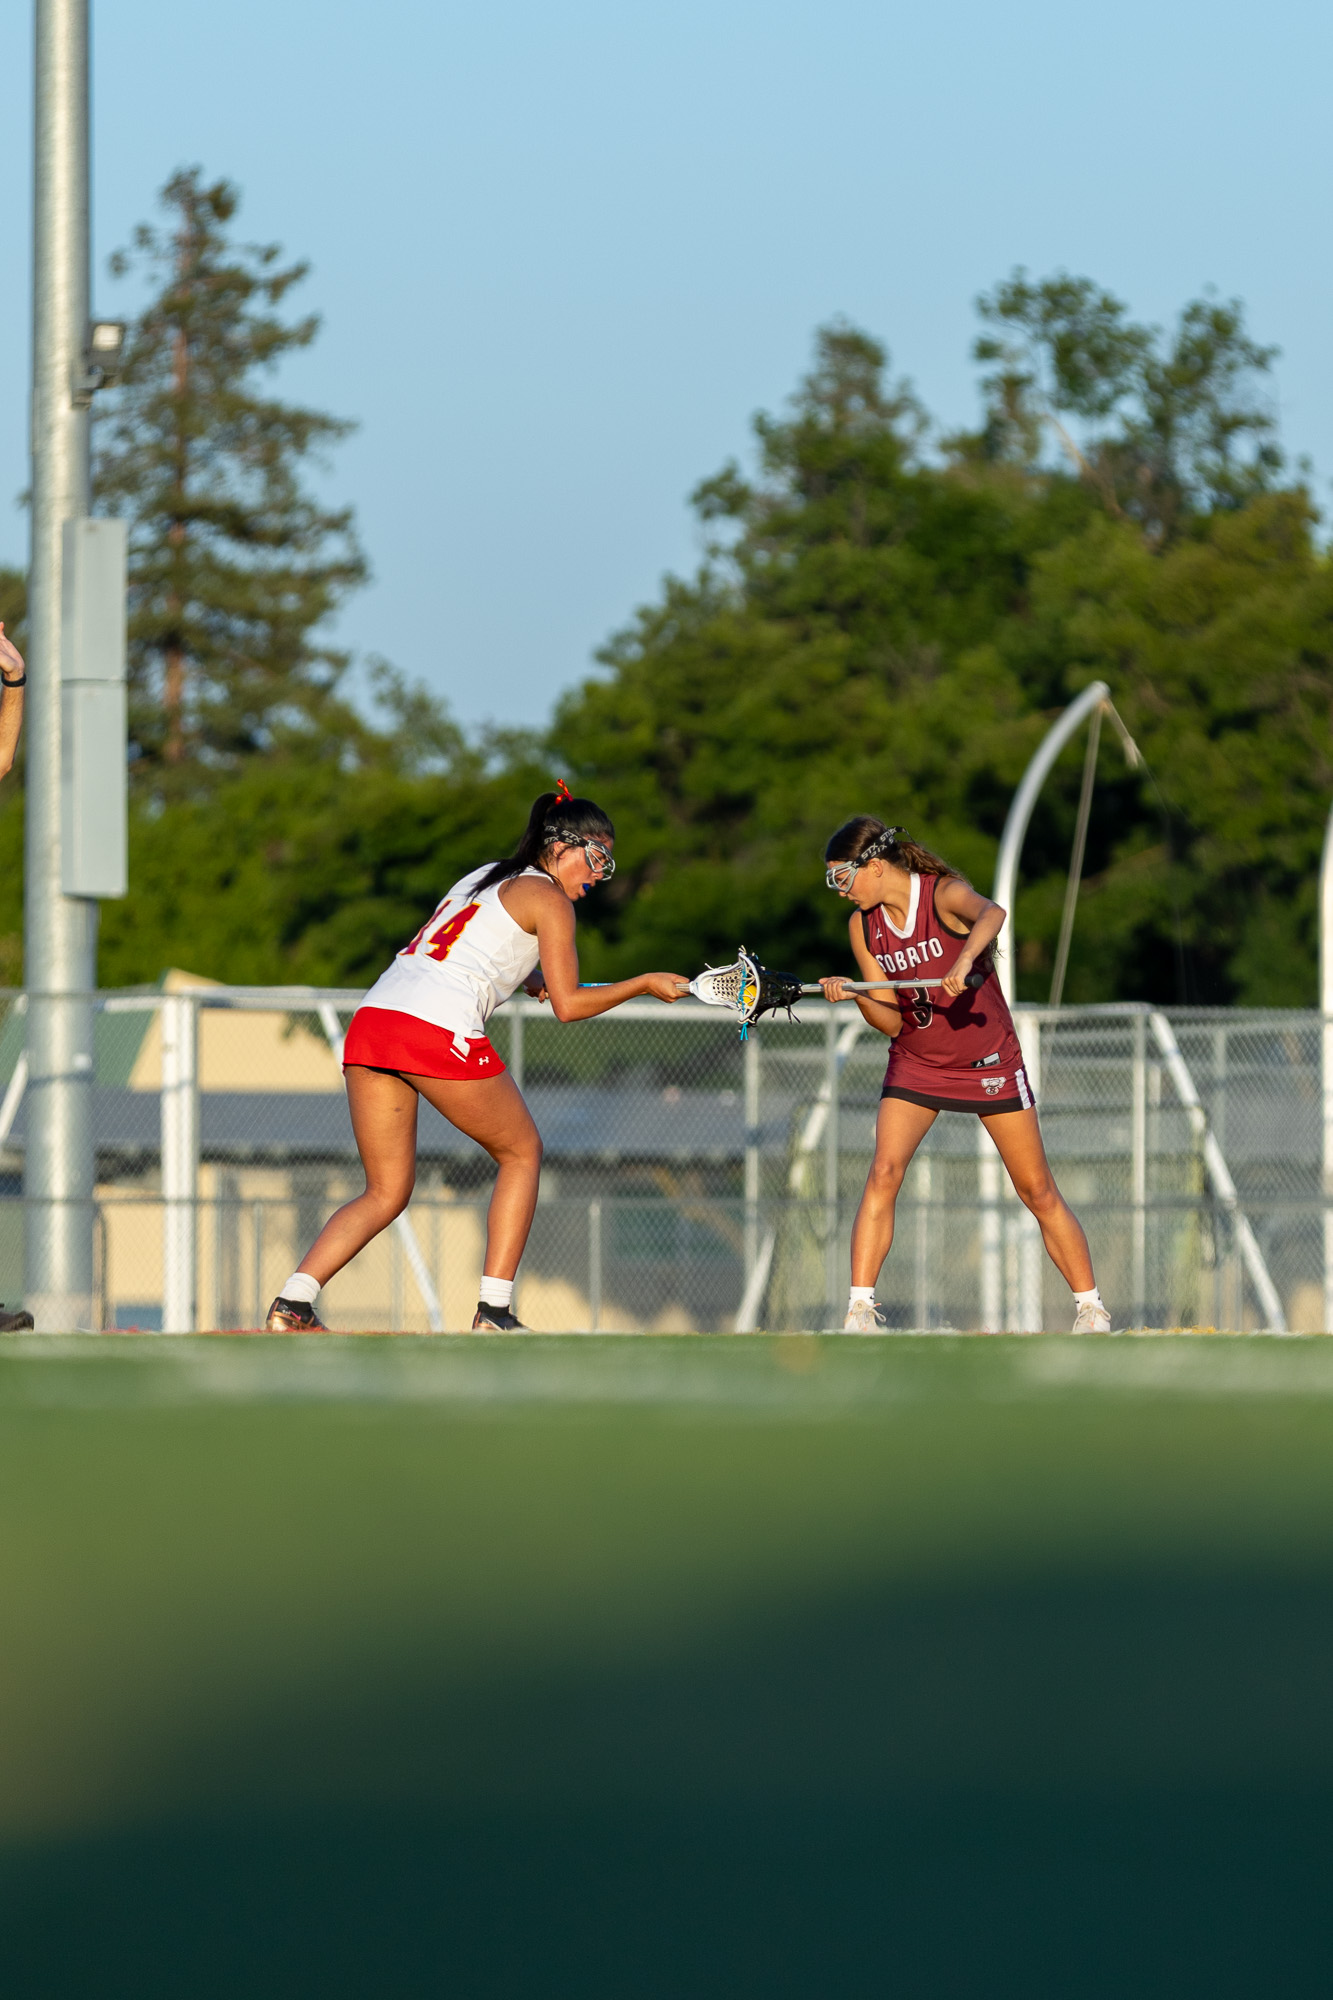
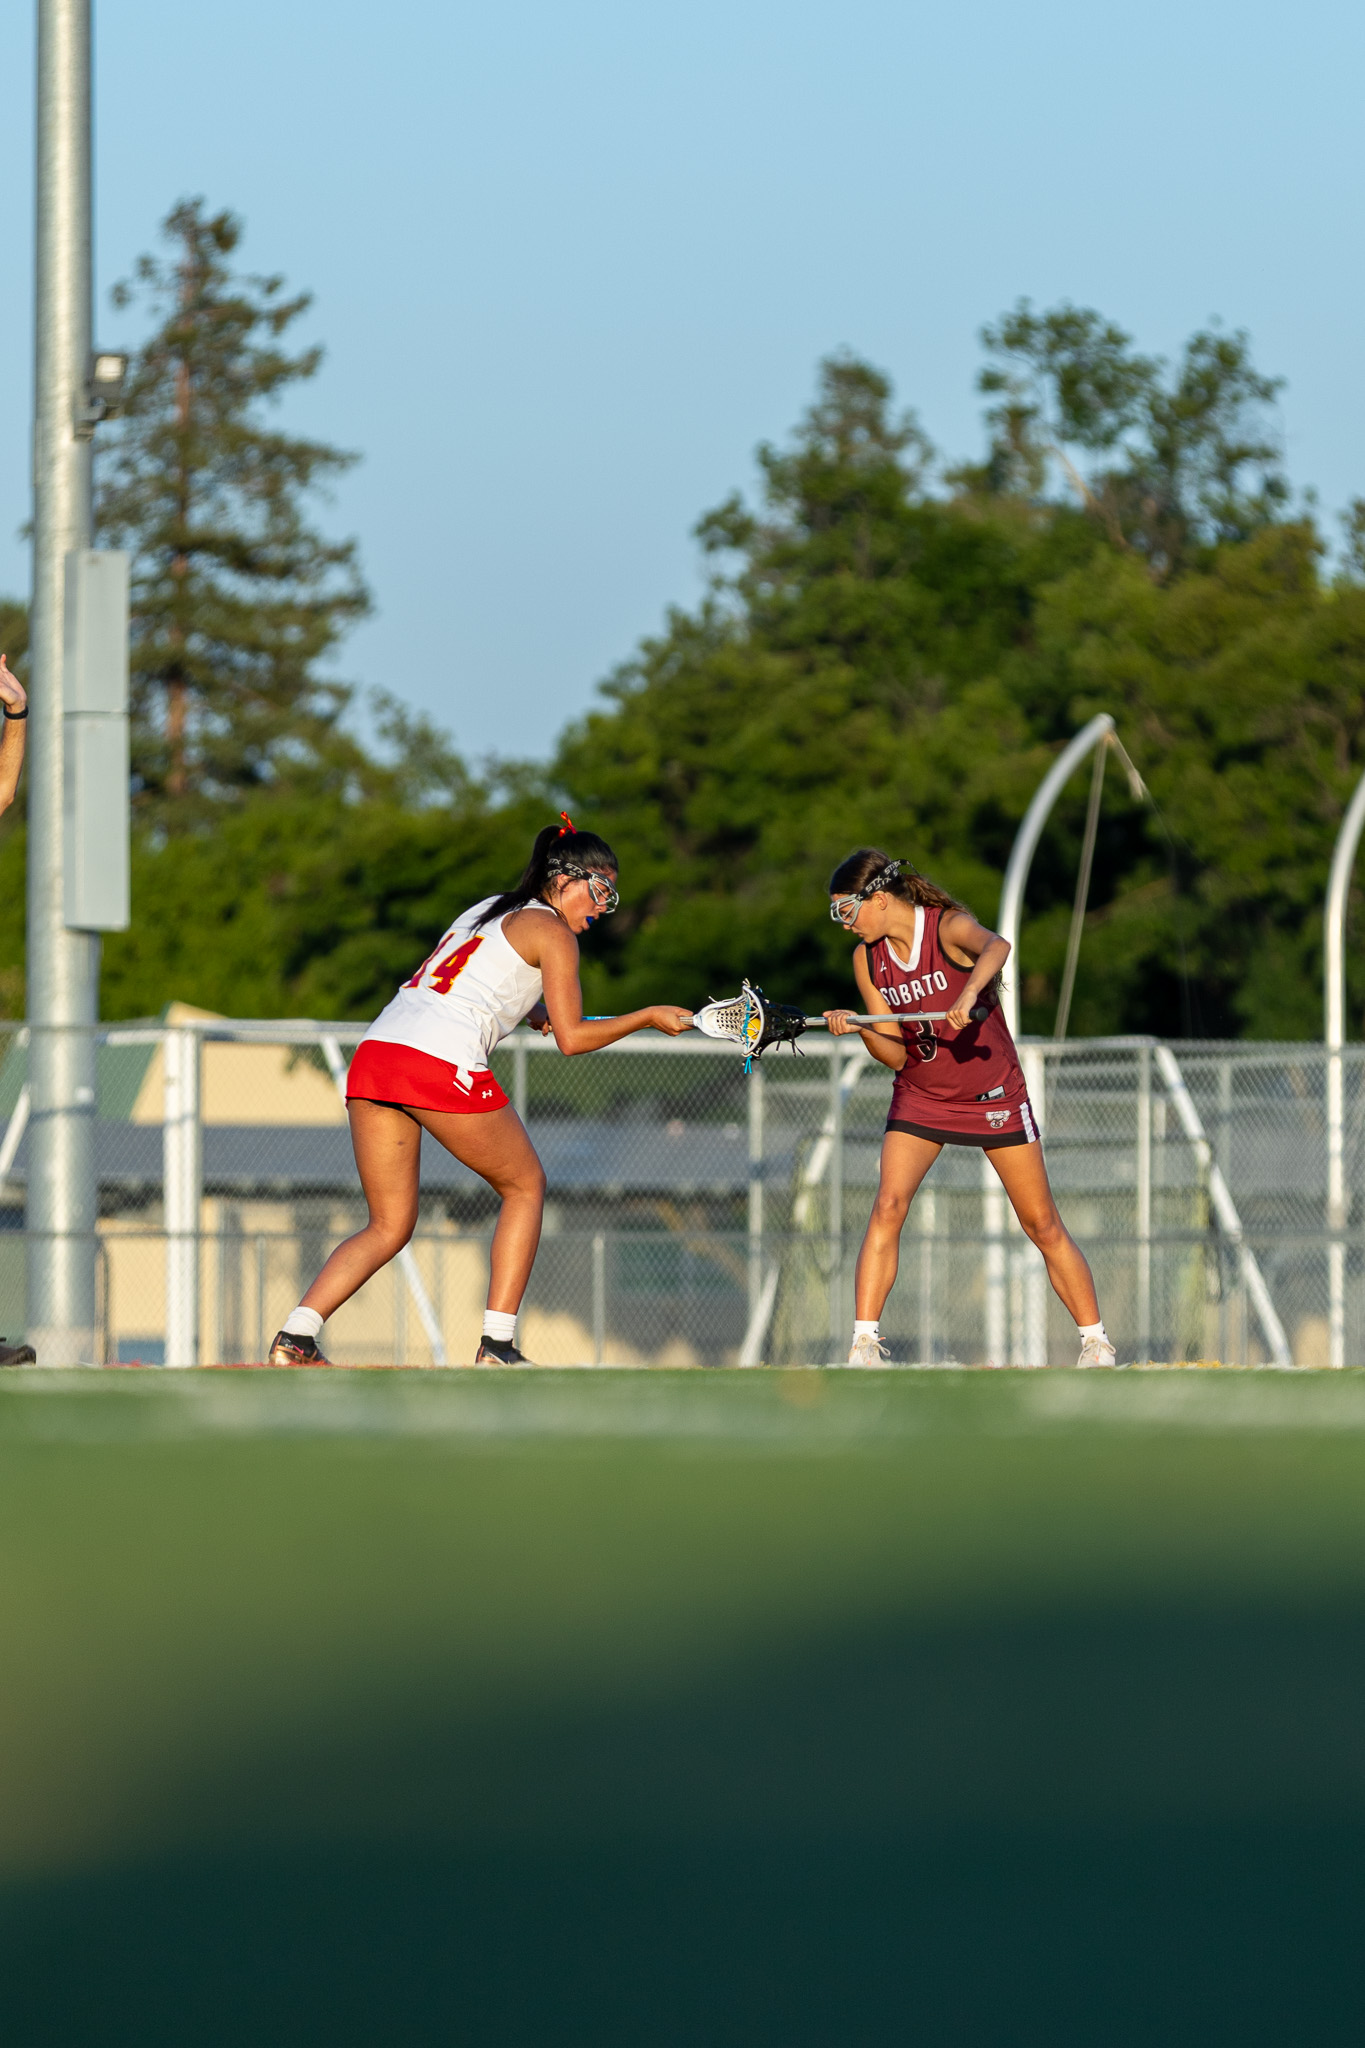
Updated photos

Changed region(s): [[0.0, 0.062, 1.0, 0.682], [0.0308, 0.434, 0.0923, 0.465], [0.0, 0.651, 0.0308, 0.682]]

diff --git a/index.html b/index.html
@@ -42,15 +42,17 @@
   -->
   <div class="gallery">
     <div class="tile g-large" data-sport="Softball" data-cap="Willow Glen HS vs Gilroy — May 13 2026"><img src="photos/Softball.01.jpg" alt="Softball player throwing a ball"><div class="tile-cap">Softball</div></div>
-    <div class="tile g-portrait" data-sport="Soccer" data-cap="Willow Glen HS vs Westmont — February 12 2026"><img src="photos/Soccer.01.jpg" alt="A player running towards the action"><div class="tile-cap">Soccer</div></div>
-    <div class="tile g-normal" data-sport="Volleyball" data-cap="Add caption"><img src="photos/Volleyball.01.jpg" alt="Description of the shot"><div class="tile-cap">Volleyball</div></div>
-    <div class="tile g-wide" data-sport="Soccer" data-cap="Add caption"><div class="tile-ph">Replace with photo</div><div class="tile-cap">Soccer</div></div>
-    <div class="tile g-normal" data-sport="Track &amp; Field" data-cap="Add caption"><div class="tile-ph">Replace with photo</div><div class="tile-cap">Track &amp; Field</div></div>
+    <div class="tile g-portrait" data-sport="Soccer" data-cap="Willow Glen HS vs Westmont — February 12 2026"><img src="photos/Soccer.01.jpg" alt="A player running towards the action" class="obj-left"><div class="tile-cap">Soccer</div></div>
+    <div class="tile g-normal" data-sport="Volleyball" data-cap="Add caption"><img src="photos/Volleyball.01.jpg" alt="A volleyball player getting a deep dig" class="obj-low"><div class="tile-cap">Volleyball</div></div>
+    <div class="tile g-normal" data-sport="Soccer" data-cap="Add caption"><img src="photos/your-file.jpg" alt="Description of the shot"><div class="tile-cap">Soccer</div></div>
+    <div class="tile g-normal" data-sport="Baseball" data-cap="Add caption"><img src="photos/Baseball.01.jpg" alt="Description of the shot"><div class="tile-cap">Baseball</div></div>
     <div class="tile g-portrait" data-sport="Lacrosse" data-cap="Willow Glen HS vs Ann Sobrato — May 6 2026"><img src="photos/Lacrosse.01.jpg" alt="Two girls at the lacrosse faceoff"><div class="tile-cap">Lacrosse</div></div>
-    <div class="tile g-normal" data-sport="Basketball" data-cap="Add caption"><div class="tile-ph">Replace with photo</div><div class="tile-cap">Basketball</div></div>
-    <div class="tile g-large" data-sport="Soccer" data-cap="Add caption"><div class="tile-ph">Replace with photo</div><div class="tile-cap">Soccer</div></div>
-    <div class="tile g-normal" data-sport="Volleyball" data-cap="Add caption"><div class="tile-ph">Replace with photo</div><div class="tile-cap">Volleyball</div></div>
-    <div class="tile g-normal" data-sport="Basketball" data-cap="Add caption"><div class="tile-ph">Replace with photo</div><div class="tile-cap">Basketball</div></div>
+    <div class="tile g-normal" data-sport="Basketball" data-cap="Add caption"><img src="photos/Soccer.02.jpg" alt="Description of the shot"><div class="tile-cap">Basketball</div></div>
+    <div class="tile g-large" data-sport="Football" data-cap="Add caption"><img src="photos/Football.01.jpg" alt="Description of the shot"><div class="tile-cap">Soccer</div></div>
+    <div class="tile g-normal" data-sport="Volleyball" data-cap="Add caption"><img src="photos/your-file.jpg" alt="Description of the shot"><div class="tile-cap">Volleyball</div></div>
+    <div class="tile g-normal" data-sport="Basketball" data-cap="Add caption"><img src="photos/your-file.jpg" alt="Description of the shot"><div class="tile-cap">Basketball</div></div>
+    <div class="tile g-normal" data-sport="Track &amp; Field" data-cap="Add caption"><img src="photos/your-file.jpg" alt="Description of the shot"><div class="tile-cap">Track &amp; Field</div></div>
+    <div class="tile g-portrait" data-sport="Wrestling" data-cap="Add caption"><img src="photos/your-file.jpg" alt="Description of the shot"><div class="tile-cap">Wrestling</div></div>
   </div>
 </section>
 

diff --git a/styles.css b/styles.css
@@ -107,6 +107,8 @@ section{padding:64px 0;}
   color:var(--ink-dim); font-size:12px; text-align:center; padding:16px;
 }
 .tile img{width:100%; height:100%; object-fit:cover;}
+.tile img.obj-low{object-position:center 61%;}
+.tile img.obj-left{object-position:30% center;}
 .tile-cap{
   position:absolute; left:0; right:0; bottom:0;
   padding:16px 18px;
